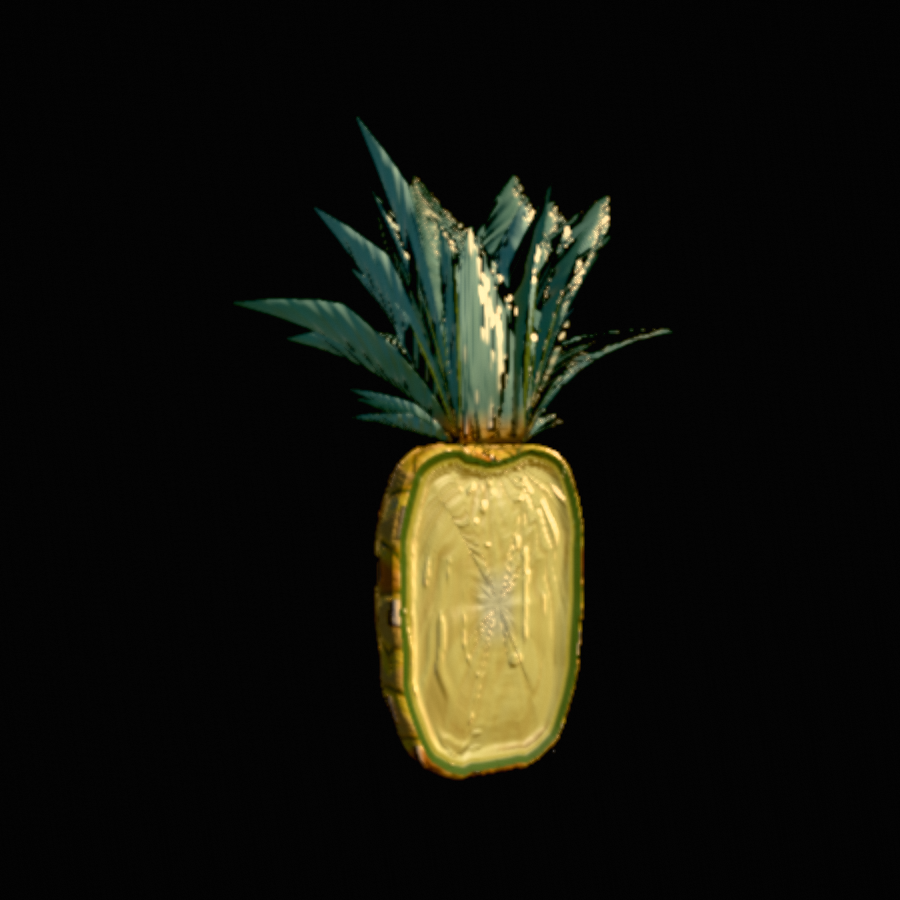
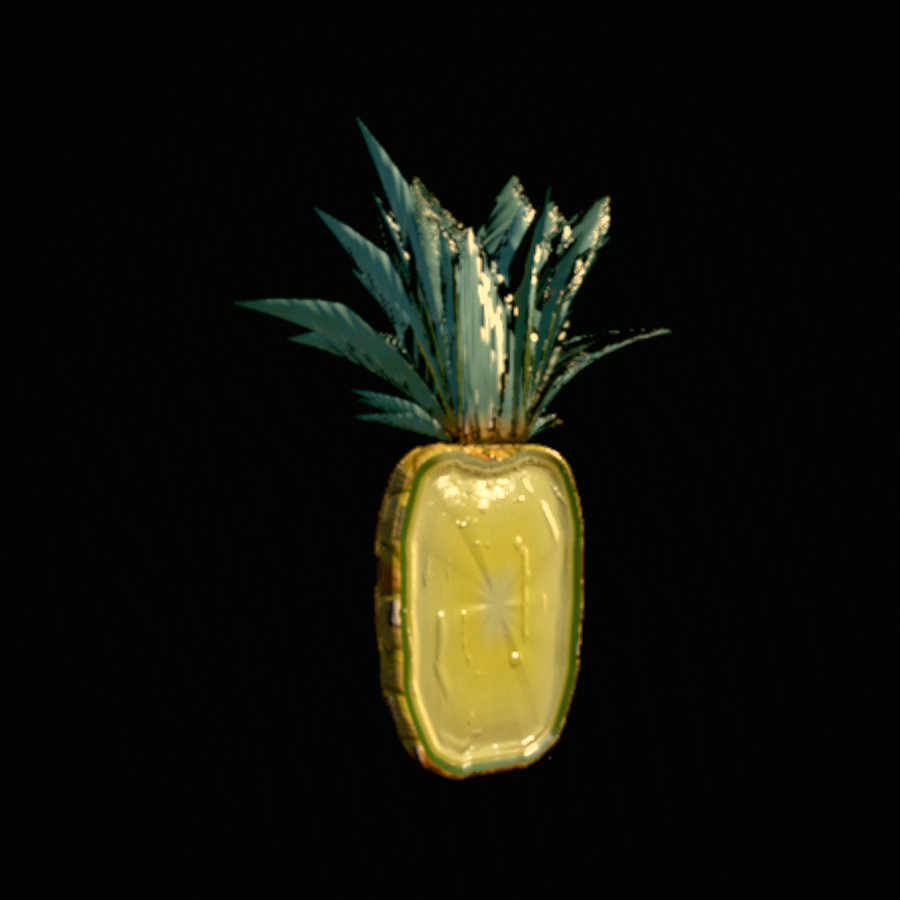
r48h: the rind ends at the crown base; a rich-to-cream wet flesh with no star
Player: the green ring crossed the top under the crown where the
reference's rind connects to the crown base; the pale-fibre star in the
middle and the melty lumpy flesh texture were wrong — the reference goes
slightly whiter and more fibrous toward the skin with a rich juicy
yellow centre half; and make the guts as wet as possible.

cutter.js: the cap's u now carries the rim's SOURCE skin uv.y (body 0.02
bottom → 0.98 top, leaves > 1) plus the dry flag — no material derives
the cap angle from u — so the pineapple's cap fades its rind, pits and
edge out where the rim is the fruit's top (uv.y > 0.84…0.94): the rind
runs up the sides to the crown base and stops.

species.js (pineapple flesh): centre half rich yellow (0.47, 0.36, 0.09)
grading to cream (0.43, 0.40, 0.19) toward the rind, with fine radial
fibres (64/turn, low contrast, denser near the edge) instead of the 18-
spoke rings; the core a soft pale disc with no striations; relief is
fibres and grain only; wet 1.0 at roughness 0.16 with the core a touch
drier and the rind matte. Cut-face hue 49.4° vs the reference's 49.7°.
drawprobe/fruitviews/blissprobe/pointerprobe clean.

Changed region(s): [[0.4667, 0.4978, 0.6222, 0.7778], [0.4978, 0.8089, 0.6222, 0.8711], [0.4667, 0.7467, 0.4978, 0.7778]]

diff --git a/src/fruit/species.js b/src/fruit/species.js
@@ -4175,65 +4175,60 @@ def({
     // hook: no foam, no juice pool, no wet gloss on a leaf (matte 0.82), and
     // the sss transmission is gated below for the same reason.
     const crownCut = () => step(8.0, uv().x);
+    // r48h: where on the fruit this rim sits — the cutter writes the rim's
+    // source skin uv.y into the cap's u (0.02 bottom … 0.98 top). The rind
+    // ends at the crown base instead of crossing under the crown.
+    const topOfFruit = () => ss(0.84, 0.94, fract(uv().x));
     return fleshMaterial(this, {
       dry: () => crownCut(),
       albedo: (cc, u) => {
         const { ang, rad, q } = cc;
-        const fib = ringN(ang, 18.0, rad.mul(2.6).add(2.0)).mul(ss(0.05, 0.30, rad))
-          .add(ringN(ang, 38.0, rad.mul(4.2).add(9.0)).mul(0.6)
-            .mul(ss(0.26, 0.60, rad)).mul(u.detail)).toVar();
-        const gr = fbm2(q.mul(28.0), 2, u.detail).toVar();
-
-        // ROUND 4, case A. The fib/gr tail peaks at 1.20, so the base's budget
-        // is 0.90/1.20 = 0.75; 0.67 leaves the peak at 0.582 scene-linear.
-        // ROUND 5, case B, x0.44: 0.582 was the peak at N.L = 0.49 and 1.29 at
-        // N.L = 1. Now 0.546 at N.L = 1, and the soft ceiling in fleshMaterial
-        // takes the very top of the fib tail rather than letting it clip.
-        // r48g: cream-yellow, not gold — the reference flesh is pale and its
-        // fibres are soft (fib 0.42 → 0.22, grain 0.18 → 0.10)
-        // cream: G near R and B lifted — the flesh cap's ceiling squeezes R
-        // hardest (0.364 at this floor's k), so a cream has to be authored
-        // with G and B carrying the paleness
-        const alb = vec3(0.4000, 0.3800, 0.1700)
-          .mul(fib.mul(0.18).add(gr.mul(0.08)).add(0.88)).toVar();
-        // eye pockets: darker fibrous nodes in concentric arcs
-        alb.assign(mix(alb, vec3(0.0900, 0.0500, 0.0100), pockets(cc).mul(0.85)));
-
         const L = paLayers(cc);
         const kr = capKey();
-        alb.assign(mix(alb, vec3(0.4200, 0.4100, 0.2800)
-          .mul(rdg2(vec2(ang.mul(10.0), rad.mul(22.0)), 2).mul(0.14).add(0.92)), L.core.mul(0.85)));
-        // the rind: a yellow-green inner edge, then dark green skin (was a
-        // brown shell band under a wide darkening ring the reference lacks)
-        alb.assign(mix(alb, vec3(0.2200, 0.2400, 0.0600), L.rindEdge.mul(0.9)));
-        alb.assign(mix(alb, vec3(0.0500, 0.0900, 0.0200).mul(kr), L.shell));
-        // leaf interior: the crown's own grey-green (the skin's bract tint,
-        // shaded a touch darker — an interior face sees less light), with a
-        // little fbm so a wide blade cross-section is not a flat decal
+        // r48h, from the reference cut: the centre half is a rich juicy
+        // yellow; toward the rind it goes whiter and finely fibrous. No
+        // spokes, no star — the fibres are fine radial lines at low
+        // contrast, denser near the edge.
+        const toEdge = ss(0.35, 0.95, rad);
+        const fine = ringN(ang, 64.0, rad.mul(5.0)).mul(0.5).add(0.5)
+          .mul(ss(0.30, 0.80, rad)).mul(u.detail);
+        const gr = fbm2(q.mul(14.0), 2, u.detail).mul(0.5).add(0.5);
+        const rich = vec3(0.4700, 0.3600, 0.0900), cream = vec3(0.4300, 0.4000, 0.1900);
+        const alb = mix(rich, cream, toEdge).mul(gr.mul(0.06).add(0.97)).toVar();
+        alb.assign(mix(alb, cream.mul(1.04), fine.mul(0.35)));
+        // the core: a soft pale disc, no striations
+        alb.assign(mix(alb, vec3(0.4300, 0.4100, 0.2600), L.core.mul(0.6)));
+        // the rind: a yellow-green inner edge, then dark green skin — ending
+        // where the rim is the fruit's top (the crown base)
+        const notTop = topOfFruit().oneMinus();
+        alb.assign(mix(alb, vec3(0.0900, 0.0500, 0.0100), pockets(cc).mul(0.85).mul(notTop)));
+        alb.assign(mix(alb, vec3(0.2200, 0.2400, 0.0600), L.rindEdge.mul(0.9).mul(notTop)));
+        alb.assign(mix(alb, vec3(0.0500, 0.0900, 0.0200).mul(kr), L.shell.mul(notTop)));
+        // leaf interior: the crown's own grey-green, shaded a touch darker
         const leaf = vec3(0.1050, 0.1480, 0.0330)
           .mul(fbm2(q.mul(16.0), 2, u.detail).mul(0.30).add(0.85)).toVar();
         alb.assign(mix(alb, leaf, crownCut()));
         return alb;
       },
       relief: (cc, u) => {
-        const L = paLayers(cc);
-        // leaves are smooth inside: fade the fibre rings out across the gate
-        return ringN(cc.ang, 18.0, cc.rad.mul(2.6).add(2.0)).mul(0.85)
-          .add(fbm2(cc.q.mul(28.0), 2, u.detail).mul(0.4))
-          .sub(pockets(cc).mul(0.8)).add(L.core.mul(0.45))
+        // smooth and wet: fine fibres only, a little grain, nothing lumpy
+        return ringN(cc.ang, 64.0, cc.rad.mul(5.0)).mul(0.30).mul(ss(0.30, 0.80, cc.rad))
+          .add(fbm2(cc.q.mul(14.0), 2, u.detail).mul(0.15))
           .mul(crownCut().mul(0.85).oneMinus());
       },
       rough: (cc, u) => {
         const L = paLayers(cc);
-        return mix(u.rough, float(0.55), L.core).add(L.shell.mul(0.25));
+        // as wet as it goes: a juice-slick face, the core a touch drier,
+        // the rind matte
+        return mix(u.rough, float(0.30), L.core).add(L.shell.mul(0.35));
       },
       sssMask: (cc) => {
         const L = paLayers(cc);
         // a leaf does not glow with transmitted juice light
-        return L.shell.oneMinus().mul(L.core.mul(0.7).oneMinus())
+        return L.shell.oneMinus().mul(L.core.mul(0.6).oneMinus())
           .mul(crownCut().oneMinus());
       },
-    }, { rough: 0.50, wet: 0.45, bump: 0.0200, floor: [0.1300, 0.0770, 0.0110] });
+    }, { rough: 0.16, wet: 1.0, bump: 0.0120, floor: [0.1300, 0.0770, 0.0110] });
   },
 });
 

diff --git a/src/slice/cutter.js b/src/slice/cutter.js
@@ -1014,7 +1014,10 @@ function addCap(side, R, sign) {
     const g = (m * N + i) * 3, a = B ? NB : NA;
     cP[o] = G[g]; cP[o + 1] = G[g + 1]; cP[o + 2] = G[g + 2];
     cN[o] = a[g]; cN[o + 1] = a[g + 1]; cN[o + 2] = a[g + 2];
-    cU[ou] = S.uA[i] + uOffAt(i); cU[ou + 1] = RV[m];
+    // r48h: the cap's u carries the rim's SOURCE skin uv.y (body 0.02–0.98,
+    // bottom → top; leaves > 1) plus the dry flag — no material derives the
+    // cap angle from u, so the pineapple can end its rind at the crown base
+    cU[ou] = S.uy[i] + uOffAt(i); cU[ou + 1] = RV[m];
   }
   /** same, into the skin buffer; always group B */
   function ws(m, i) {
